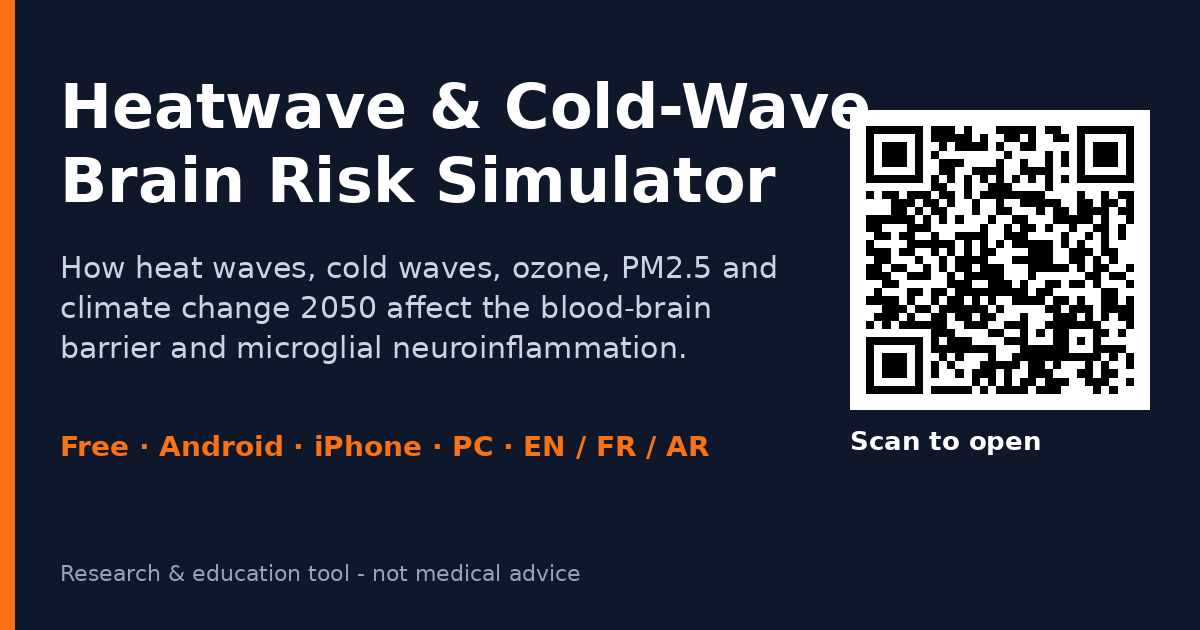
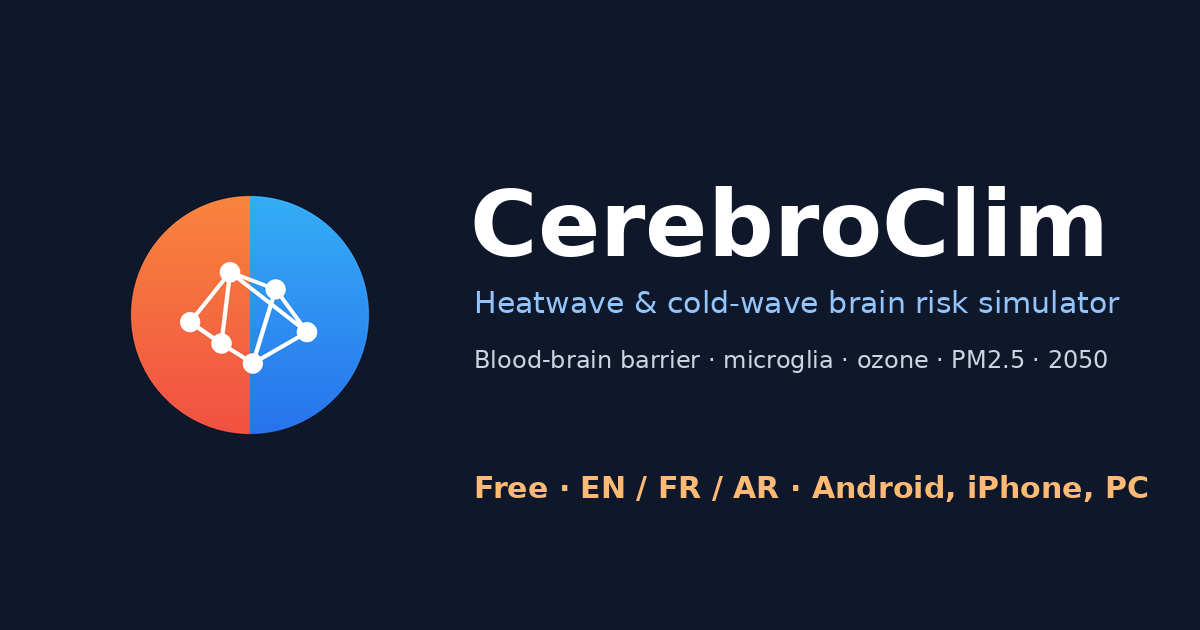
Add files via upload

Changed region(s): [[0.0, 0.0, 0.9558, 1.0], [0.6783, 0.754, 0.9558, 0.8143], [0.37, 0.754, 0.6475, 0.8143]]

diff --git a/index.html b/index.html
@@ -5,29 +5,33 @@
 <meta name="viewport" content="width=device-width,initial-scale=1,viewport-fit=cover">
 <title>Heatwave Brain Risk Simulator: Heat, Cold, Ozone & Climate 2050</title>
 <meta name="description" content="Free simulator of how heat waves, cold waves, ozone, PM2.5 pollution and climate change 2050 affect the blood-brain barrier and microglial neuroinflammation. Works on Android, iPhone and PC. EN/FR/AR.">
-<meta name="keywords" content="heatwave brain risk, heat wave health, cold wave health, blood-brain barrier, neuroinflammation, microglia M1, ozone health effects, PM2.5, climate change 2050 health, heat stroke prevention, climate and brain health, ERA5, Open-Meteo">
+<meta name="keywords" content="CerebroClim, heatwave brain risk, heat wave health, cold wave health, blood-brain barrier, neuroinflammation, microglia M1, ozone health effects, PM2.5, climate change 2050 health, heat stroke prevention, climate and brain health, ERA5, Open-Meteo">
+<meta http-equiv="Content-Security-Policy" content="default-src 'self'; script-src 'self' 'unsafe-inline'; style-src 'self' 'unsafe-inline'; img-src 'self' data:; frame-src https://*.streamlit.app; connect-src 'self'; object-src 'none'; base-uri 'self'; form-action 'self' https://formspree.io">
+<meta name="referrer" content="strict-origin-when-cross-origin">
 <meta name="author" content="Tasnim (TiaGassem)">
 <meta name="robots" content="index, follow, max-image-preview:large">
 <!-- GOOGLE SEARCH CONSOLE: paste your verification tag on the next line (remove the comment markers) -->
+<!-- BING: <meta name="msvalidate.01" content="TOKEN"> -->
 <!-- <meta name="google-site-verification" content="PASTE_YOUR_TOKEN_HERE"> -->
-<link rel="canonical" href="https://tiagassem.github.io/heatwave-brain-risk-simulator/">
+<link rel="canonical" href="https://tiagassem.github.io/cerebroclim/">
 <link rel="manifest" href="manifest.webmanifest">
 <link rel="icon" type="image/png" href="icons/favicon-48.png">
 <link rel="apple-touch-icon" href="icons/apple-touch-icon.png">
 <meta name="theme-color" content="#0F172A">
 <meta name="mobile-web-app-capable" content="yes">
 <meta name="apple-mobile-web-app-capable" content="yes">
-<meta name="apple-mobile-web-app-title" content="BrainRisk">
+<meta name="apple-mobile-web-app-title" content="CerebroClim">
 <meta property="og:type" content="website">
-<meta property="og:title" content="Heatwave & Cold-Wave Brain Risk Simulator">
+<meta property="og:title" content="CerebroClim: Heatwave & Cold-Wave Brain Risk Simulator">
 <meta property="og:description" content="Free tool: how heat, cold, ozone, PM2.5 and climate 2050 affect the blood-brain barrier and microglia. Android, iPhone, PC.">
-<meta property="og:url" content="https://tiagassem.github.io/heatwave-brain-risk-simulator/">
-<meta property="og:image" content="https://tiagassem.github.io/heatwave-brain-risk-simulator/og-image.png">
+<meta property="og:url" content="https://tiagassem.github.io/cerebroclim/">
+<meta property="og:image" content="https://tiagassem.github.io/cerebroclim/og-image.png">
 <meta name="twitter:card" content="summary_large_image">
-<meta name="twitter:image" content="https://tiagassem.github.io/heatwave-brain-risk-simulator/og-image.png">
+<meta name="twitter:image" content="https://tiagassem.github.io/cerebroclim/og-image.png">
 <script type="application/ld+json">
 {"@context":"https://schema.org","@graph":[
-{"@type":"WebApplication","name":"Heatwave & Cold-Wave Brain Risk Simulator","url":"https://tiagassem.github.io/heatwave-brain-risk-simulator/","description":"Free simulator of heat waves, cold waves, ozone, PM2.5 and climate change 2050 effects on blood-brain barrier leakage and M1 microglial neuroinflammation.","applicationCategory":"EducationalApplication","operatingSystem":"Android, iOS, Windows, macOS, Linux (web)","browserRequirements":"Requires JavaScript","inLanguage":["en","fr","ar"],"isAccessibleForFree":true,"offers":{"@type":"Offer","price":"0","priceCurrency":"USD"},"author":{"@type":"Person","name":"Tasnim (TiaGassem)","url":"https://github.com/TiaGassem"},"image":"https://tiagassem.github.io/heatwave-brain-risk-simulator/og-image.png","keywords":"heatwave, cold wave, blood-brain barrier, neuroinflammation, ozone, PM2.5, climate change 2050"},
+{"@type":"WebSite","name":"CerebroClim","alternateName":["Cerebro Clim","CerebroClim brain risk simulator"],"url":"https://tiagassem.github.io/cerebroclim/","inLanguage":["en","fr","ar"]},
+{"@type":"WebApplication","name":"CerebroClim","alternateName":"Heatwave & Cold-Wave Brain Risk Simulator","sameAs":["https://github.com/TiaGassem/cerebroclim"],"url":"https://tiagassem.github.io/cerebroclim/","description":"Free simulator of heat waves, cold waves, ozone, PM2.5 and climate change 2050 effects on blood-brain barrier leakage and M1 microglial neuroinflammation.","applicationCategory":"EducationalApplication","operatingSystem":"Android, iOS, Windows, macOS, Linux (web)","browserRequirements":"Requires JavaScript","inLanguage":["en","fr","ar"],"isAccessibleForFree":true,"offers":{"@type":"Offer","price":"0","priceCurrency":"USD"},"author":{"@type":"Person","name":"Tasnim (TiaGassem)","url":"https://github.com/TiaGassem"},"image":"https://tiagassem.github.io/cerebroclim/og-image.png","keywords":"heatwave, cold wave, blood-brain barrier, neuroinflammation, ozone, PM2.5, climate change 2050"},
 {"@type":"FAQPage","mainEntity":[
 {"@type":"Question","name":"Is the simulator free?","acceptedAnswer":{"@type":"Answer","text":"Yes. It is free to use online, with no account."}},
 {"@type":"Question","name":"Does it give a medical diagnosis?","acceptedAnswer":{"@type":"Answer","text":"No. It is a research and educational model that estimates relative risk; it is not a medical device or medical advice."}},
@@ -51,21 +55,23 @@ details{background:var(--card);border:1px solid var(--bd);border-radius:8px;padd
 footer{border-top:1px solid var(--bd);padding:20px 0;color:var(--mut);font-size:.9rem}ul{padding-left:20px}
 body.standalone header,body.standalone .hero,body.standalone .note,body.standalone section:not(#app),body.standalone footer{display:none}
 body.standalone .wrap{padding:0;max-width:none}body.standalone .frame{border:0;border-radius:0}body.standalone iframe{height:100dvh;min-height:0}body.standalone #app{padding:0}
+.skip{position:absolute;left:-999px;top:0;background:var(--fg);color:var(--bg);padding:8px 12px;z-index:9}.skip:focus{left:8px}a:focus-visible,button:focus-visible,summary:focus-visible{outline:3px solid var(--acc);outline-offset:2px}@media(prefers-reduced-motion:reduce){*{scroll-behavior:auto!important}}html{scroll-behavior:smooth}
 </style>
 </head>
 <body>
-<header><div class="wrap"><span class="brand">🧠 BrainRisk Simulator</span>
-<nav><a href="#app">App</a><a href="#install">Install</a><a href="#faq">FAQ</a><a href="#cite">Cite</a><a href="privacy.html">Privacy</a></nav></div></header>
+<a class="skip" href="#app">Skip to the app</a>
+<header><div class="wrap"><span class="brand"><img src="icons/logo.svg" alt="" width="28" height="28" style="vertical-align:middle;margin-right:8px">CerebroClim</span>
+<nav><a href="#app">App</a><a href="#install">Install</a><a href="#faq">FAQ</a><a href="#cite">Cite</a><a href="contact.html">Contact</a><a href="privacy.html">Privacy</a></nav></div></header>
 <main class="wrap">
 <section class="hero">
-<h1>Heatwave &amp; Cold-Wave Brain Risk Simulator</h1>
+<h1><img src="icons/logo.svg" alt="" width="56" height="56" style="vertical-align:middle;margin-right:10px">CerebroClim<br><span style="font-size:.55em;font-weight:600;color:var(--mut)">Heatwave &amp; Cold-Wave Brain Risk Simulator</span></h1>
 <p class="lead">A free, open-access tool showing how <b>heat waves, cold waves, ozone and PM2.5 pollution and climate change 2050</b> affect the <b>blood-brain barrier</b> and <b>M1 microglial neuroinflammation</b> - with a 48-hour prevention window, two-region comparison, alerts and a PDF report. For everyone: older adults, families, clinicians, researchers, schools and workplaces.</p>
-<div class="btns"><a class="btn" href="https://heatwave-brain-risk-simulator.streamlit.app/" target="_blank" rel="noopener">🌐 Option 1 - Open the web app</a><button class="btn" id="installBtn" type="button">📲 Option 2 - Install as an app</button><a class="btn alt" href="#app">Use it inside this page ↓</a></div>
+<div class="btns"><a class="btn" href="https://cerebroclim.streamlit.app/" target="_blank" rel="noopener">🌐 Option 1 - Open the web app</a><button class="btn" id="installBtn" type="button">📲 Option 2 - Install as an app</button><a class="btn alt" href="#app">Use it inside this page ↓</a></div>
 </section>
 <section id="app">
-<div class="frame"><iframe id="appframe" data-src="https://heatwave-brain-risk-simulator.streamlit.app/?embed=true" title="Heatwave and Cold-Wave Brain Risk Simulator" allow="geolocation; clipboard-write; fullscreen; notifications" referrerpolicy="no-referrer-when-downgrade"></iframe></div>
-<p class="note">First load can take ~30 s if the app was asleep (press the “get this app back up” button if shown). Not loading? <a href="https://heatwave-brain-risk-simulator.streamlit.app/" target="_blank" rel="noopener">Open it in a new tab</a>.</p>
-<noscript><p><a href="https://heatwave-brain-risk-simulator.streamlit.app/">Open the simulator</a> (JavaScript required).</p></noscript>
+<div class="frame"><iframe id="appframe" data-src="https://cerebroclim.streamlit.app/?embed=true" title="Heatwave and Cold-Wave Brain Risk Simulator" allow="geolocation; clipboard-write; fullscreen; notifications" referrerpolicy="no-referrer-when-downgrade"></iframe></div>
+<p class="note">First load can take ~30 s if the app was asleep (press the “get this app back up” button if shown). Not loading? <a href="https://cerebroclim.streamlit.app/" target="_blank" rel="noopener">Open it in a new tab</a>.</p>
+<noscript><p><a href="https://cerebroclim.streamlit.app/">Open the simulator</a> (JavaScript required).</p></noscript>
 </section>
 <section>
 <h2>What you can do</h2>
@@ -117,11 +123,11 @@ body.standalone .wrap{padding:0;max-width:none}body.standalone .frame{border:0;b
 </section>
 <section id="cite">
 <h2>How to cite</h2>
-<p>Tasnim (TiaGassem) (2026). <i>Heatwave &amp; Cold-Wave Brain Risk Simulator</i> [Web application]. https://tiagassem.github.io/heatwave-brain-risk-simulator/</p>
+<p>Tasnim (TiaGassem) (2026). <i>Heatwave &amp; Cold-Wave Brain Risk Simulator</i> [Web application]. https://tiagassem.github.io/cerebroclim/</p>
 </section>
 </main>
 <footer><div class="wrap"><p>© 2026 Tasnim (TiaGassem). All rights reserved. The online tool is free for personal, educational and non-commercial research use; the source code is proprietary and may not be copied, redistributed or used commercially without written permission.</p>
-<p>Research and educational tool - not a medical device, not a diagnosis, not a substitute for professional medical advice. <a href="privacy.html">Privacy</a></p></div></footer>
+<p>Research and educational tool - not a medical device, not a diagnosis, not a substitute for professional medical advice. <a href="privacy.html">Privacy</a> · <a href="contact.html">Contact</a> · <a href="/.well-known/security.txt">Security</a></p></div></footer>
 <script>
 if ('serviceWorker' in navigator) { addEventListener('load', () => navigator.serviceWorker.register('sw.js').catch(() => {})); }
 const standalone = matchMedia('(display-mode: standalone)').matches || navigator.standalone === true;

diff --git a/contact.html b/contact.html
@@ -1,0 +1,13 @@
+<!doctype html><html lang="en"><head><meta charset="utf-8"><meta name="viewport" content="width=device-width,initial-scale=1">
+<title>Contact - CerebroClim</title><meta name="robots" content="index, follow"><link rel="canonical" href="https://tiagassem.github.io/cerebroclim/contact.html"><link rel="icon" href="icons/favicon-48.png">
+<meta http-equiv="Content-Security-Policy" content="default-src 'self'; style-src 'self' 'unsafe-inline'; img-src 'self' data:; form-action 'self' https://formspree.io; base-uri 'self'; object-src 'none'">
+<style>body{font:16px/1.6 system-ui,sans-serif;max-width:720px;margin:0 auto;padding:16px;color:#0f172a}a{color:#0b6fa4}label{display:block;margin:10px 0 4px;font-weight:600}input,textarea{width:100%;padding:10px;border:1px solid #94a3b8;border-radius:8px;font:inherit}button{margin-top:12px;padding:12px 18px;border:0;border-radius:8px;background:#0f172a;color:#fff;font:inherit;font-weight:600}</style></head><body>
+<p><a href="./">← CerebroClim</a></p><h1>Contact</h1>
+<p>Questions, corrections to the science, accessibility problems or collaboration ideas are welcome. The author's e-mail address is intentionally not published, to avoid spam.</p>
+<ul><li><b>Public question or bug:</b> <a href="https://github.com/TiaGassem/cerebroclim/issues/new">open a GitHub issue</a>.</li>
+<li><b>Security problem (private):</b> <a href="https://github.com/TiaGassem/cerebroclim/security/advisories/new">report it privately</a> (see <a href="/.well-known/security.txt">security.txt</a>).</li></ul>
+<!-- OPTIONAL PRIVATE FORM: create a free form at formspree.io (it forwards to your inbox without showing your address), then replace YOUR_FORM_ID and delete these two comment lines.
+<h2>Private message</h2>
+<form action="https://formspree.io/f/YOUR_FORM_ID" method="POST"><label for="n">Name</label><input id="n" name="name" required autocomplete="name"><label for="e">Your e-mail (for the reply)</label><input id="e" type="email" name="email" required autocomplete="email"><label for="m">Message</label><textarea id="m" name="message" rows="6" required></textarea><input type="text" name="_gotcha" style="display:none" tabindex="-1" autocomplete="off"><button type="submit">Send</button></form>
+-->
+<p style="font-size:.9rem;color:#475569">Research and educational tool, not medical advice. © 2026 Tasnim (TiaGassem).</p></body></html>

diff --git a/privacy.html b/privacy.html
@@ -1,5 +1,5 @@
 <!doctype html><html lang="en"><head><meta charset="utf-8"><meta name="viewport" content="width=device-width,initial-scale=1">
-<title>Privacy - Heatwave Brain Risk Simulator</title><meta name="robots" content="index, follow"><link rel="canonical" href="https://tiagassem.github.io/heatwave-brain-risk-simulator/privacy.html">
+<title>Privacy - CerebroClim</title><meta name="robots" content="index, follow"><link rel="canonical" href="https://tiagassem.github.io/cerebroclim/privacy.html">
 <style>body{font:16px/1.6 system-ui,sans-serif;max-width:760px;margin:0 auto;padding:16px;color:#0f172a}a{color:#0b6fa4}</style></head><body>
 <p><a href="./">← Back</a></p><h1>Privacy notice</h1><p><i>Last updated: 2026-10-17</i></p>
 <h2>This website</h2><p>This page does not use cookies or trackers of its own and does not collect personal data. GitHub (hosting) may keep standard server logs.</p>
@@ -9,5 +9,5 @@
 <li>Results are kept only in your browser session and are discarded when you close or reset the app.</li>
 <li>Streamlit may process technical logs as the hosting provider.</li></ul>
 <h2>Medical disclaimer</h2><p>Research and educational tool. Not a medical device, not a diagnosis and not medical advice. In an emergency contact your local emergency services.</p>
-<h2>Contact</h2><p>Via the author's GitHub profile: <a href="https://github.com/TiaGassem">github.com/TiaGassem</a>.</p>
+<h2>Contact</h2><p>See the <a href="contact.html">contact page</a>.</p>
 <p>© 2026 Tasnim (TiaGassem). All rights reserved.</p></body></html>

diff --git a/sw.js b/sw.js
@@ -1,5 +1,5 @@
-const C = 'brainrisk-v1';
-const FILES = ['./', 'index.html', 'manifest.webmanifest', 'icons/icon-192.png', 'icons/icon-512.png'];
+const C = 'cerebroclim-v1';
+const FILES = ['./', 'index.html', 'manifest.webmanifest', 'icons/icon-192.png', 'icons/icon-512.png', 'privacy.html', 'contact.html'];
 self.addEventListener('install', e => { e.waitUntil(caches.open(C).then(c => c.addAll(FILES)).then(() => self.skipWaiting())); });
 self.addEventListener('activate', e => { e.waitUntil(caches.keys().then(k => Promise.all(k.filter(x => x !== C).map(x => caches.delete(x)))).then(() => self.clients.claim())); });
 self.addEventListener('fetch', e => {

diff --git a/app.py b/app.py
@@ -1,5 +1,5 @@
 """
-Heat-Stress & Cold-Wave Neuroinflammation Simulator Platform
+CerebroClim: Heatwave & Cold-Wave Brain Risk Simulator
 MSc Neuroscience Research Platform | Final Unified Master Edition
 
 Author: Tasnim (TiaGassem) | Computational Neuroscience Research Project
@@ -202,7 +202,7 @@ EMAIL_RE = re.compile(r"^[^@\s]+@[^@\s]+\.[^@\s]+$")
 # ---------------------------------------------------------------------------
 # CLINICAL STYLING & LAYOUT CONFIGURATION
 # ---------------------------------------------------------------------------
-st.set_page_config(page_title="Heat & Cold-Wave Neuroinflammation Simulator | Neuro-Protection", page_icon="🧠", layout="wide")
+st.set_page_config(page_title="CerebroClim | Heatwave & Cold-Wave Brain Risk Simulator", page_icon="🧠", layout="wide")
 sns.set_theme(style="whitegrid")
 
 st.markdown(

diff --git a/README.md b/README.md
@@ -1,11 +1,13 @@
-# 🧠 Heatwave & Cold-Wave Brain Risk Simulator
+# 🧠 CerebroClim
+
+**Heatwave & Cold-Wave Brain Risk Simulator**
 
 Free, open-access simulator of how **heat waves, cold waves, ozone, PM2.5 pollution and climate change 2050** affect the **blood-brain barrier** and **M1 microglial neuroinflammation**. Android, iPhone and PC. EN / FR / AR.
 
 | Choose how to use it | Link |
 |---|---|
-| 🌐 **Web app (full screen)** | https://heatwave-brain-risk-simulator.streamlit.app/ |
-| 📲 **Installable app + QR code (website)** | https://tiagassem.github.io/heatwave-brain-risk-simulator/ |
+| 🌐 **Web app (full screen)** | https://cerebroclim.streamlit.app/ |
+| 📲 **Installable app + QR code (website)** | https://tiagassem.github.io/cerebroclim/ |
 
 **Keywords:** heatwave brain risk, heat wave health, cold wave health, blood-brain barrier, neuroinflammation, microglia M1, ozone, PM2.5, climate change 2050, heat stroke prevention, ERA5, Open-Meteo, computational neuroscience.
 
